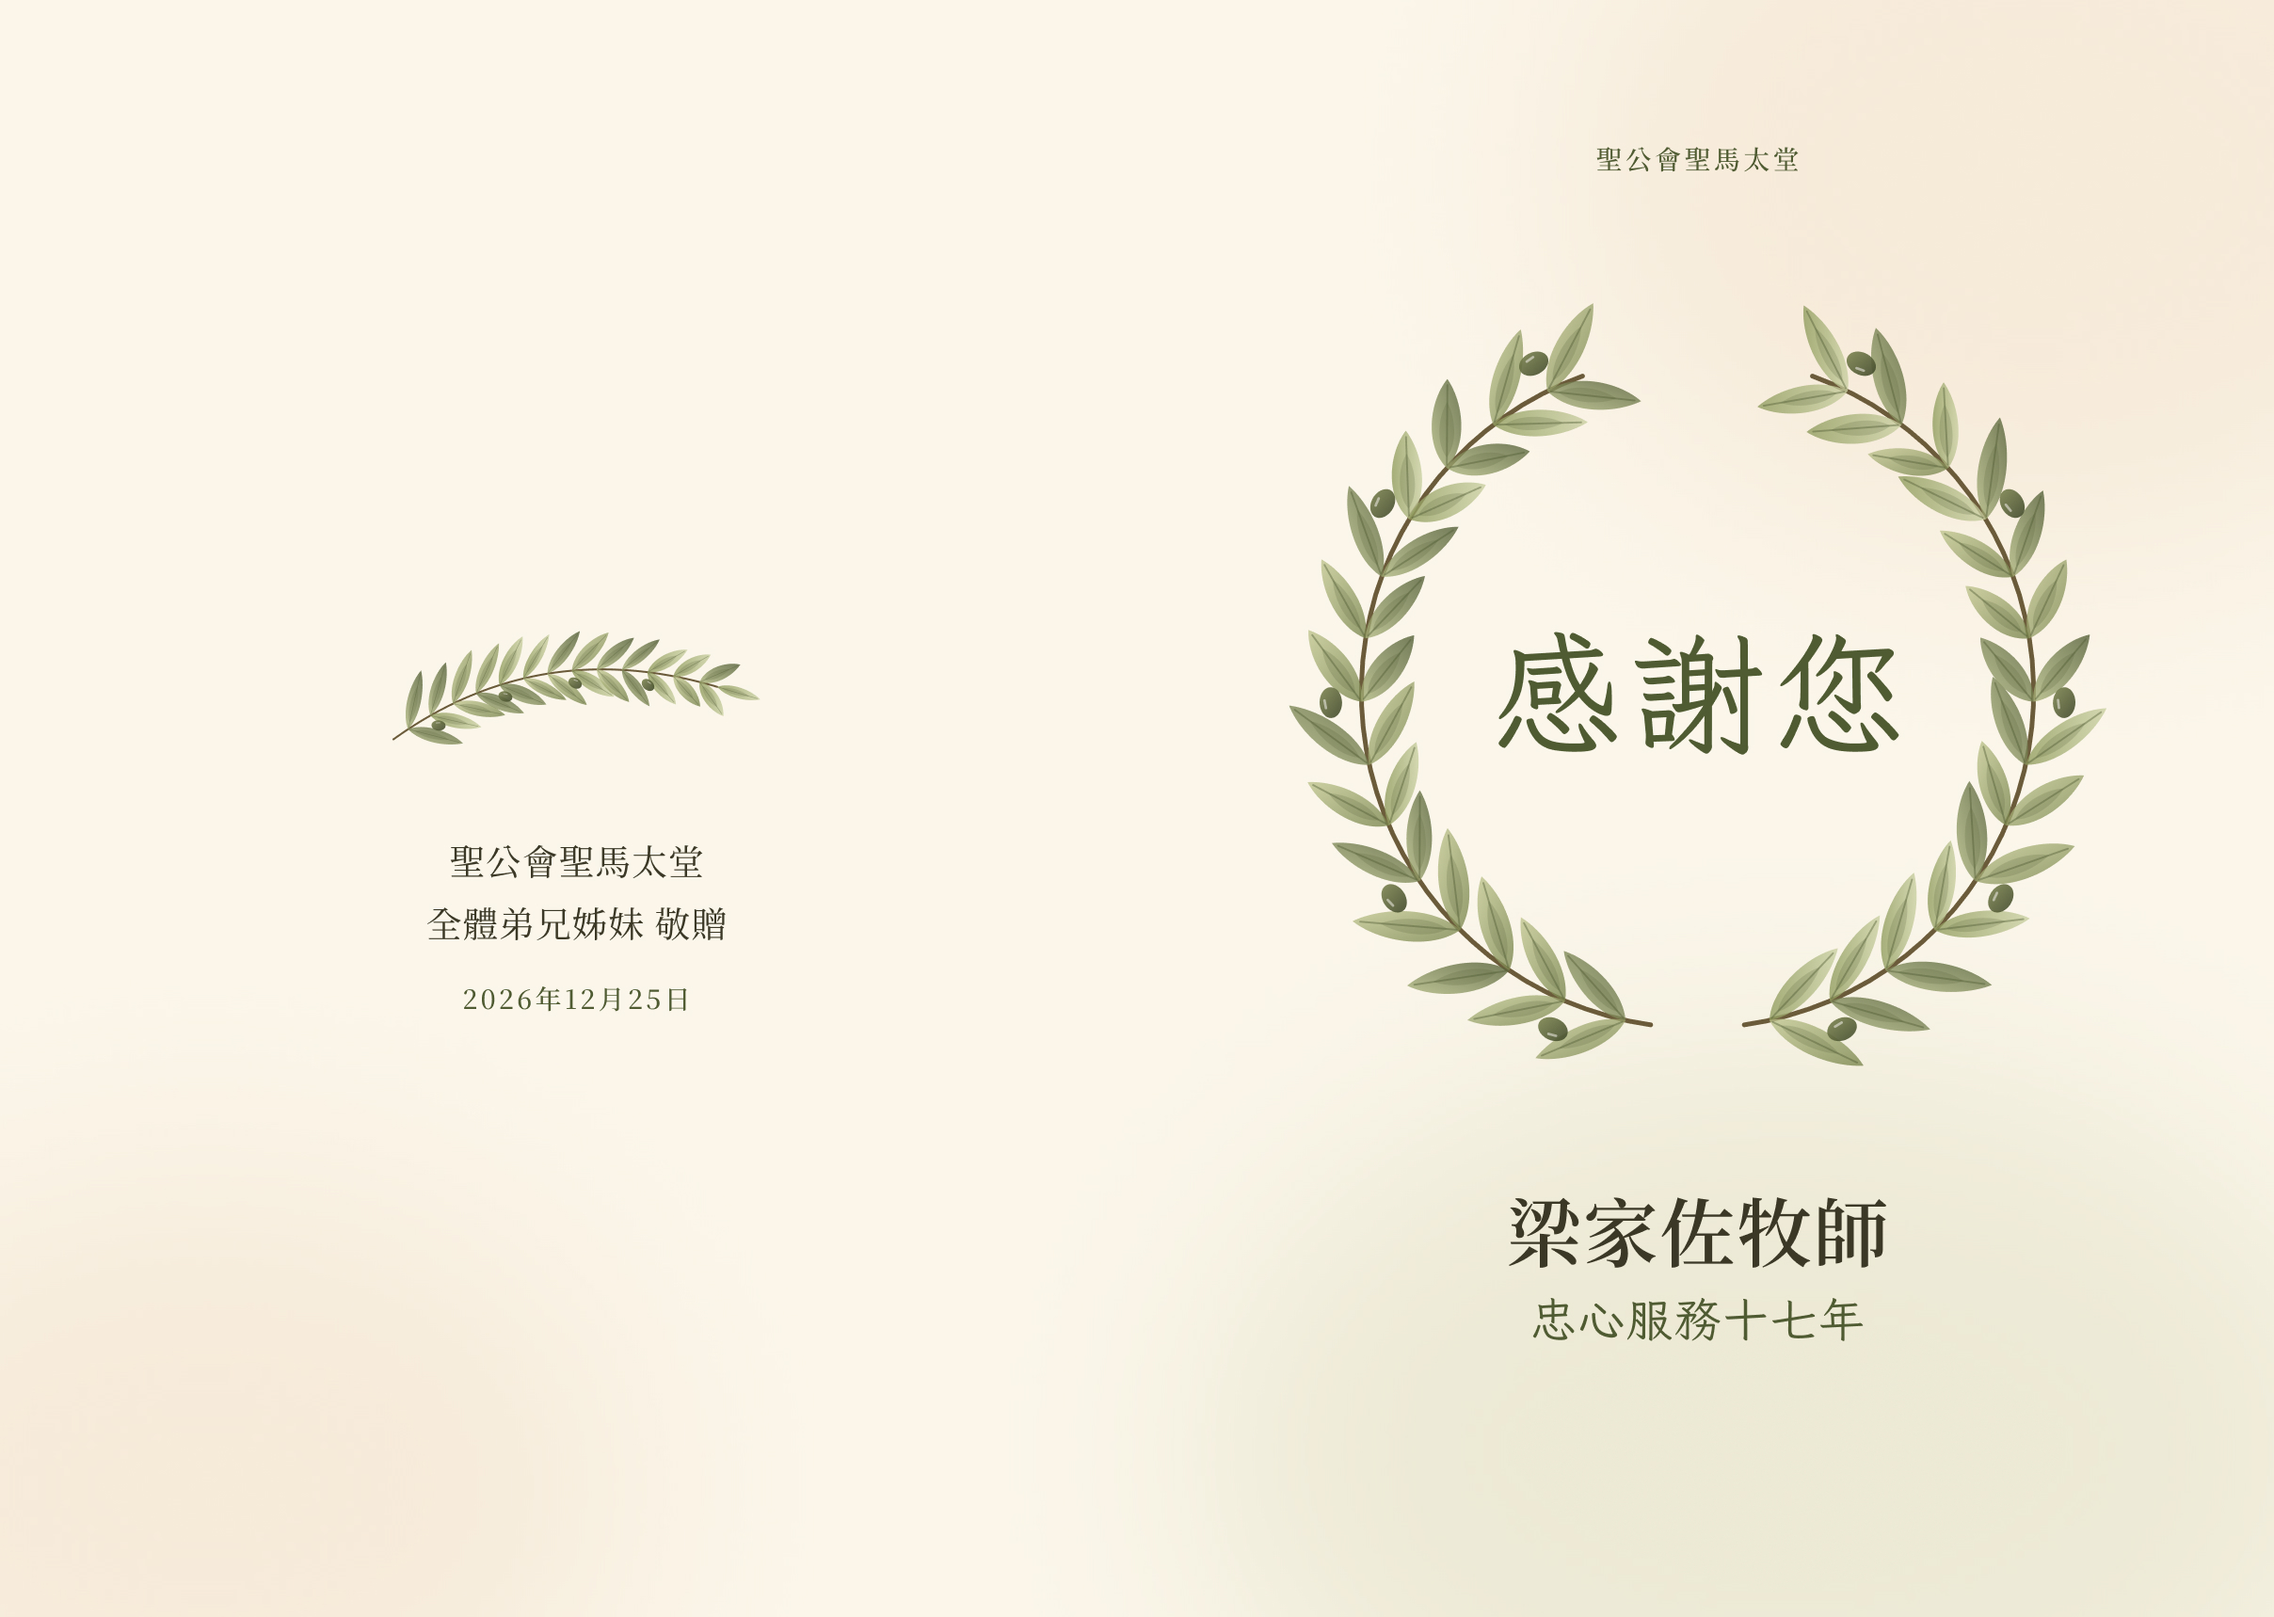
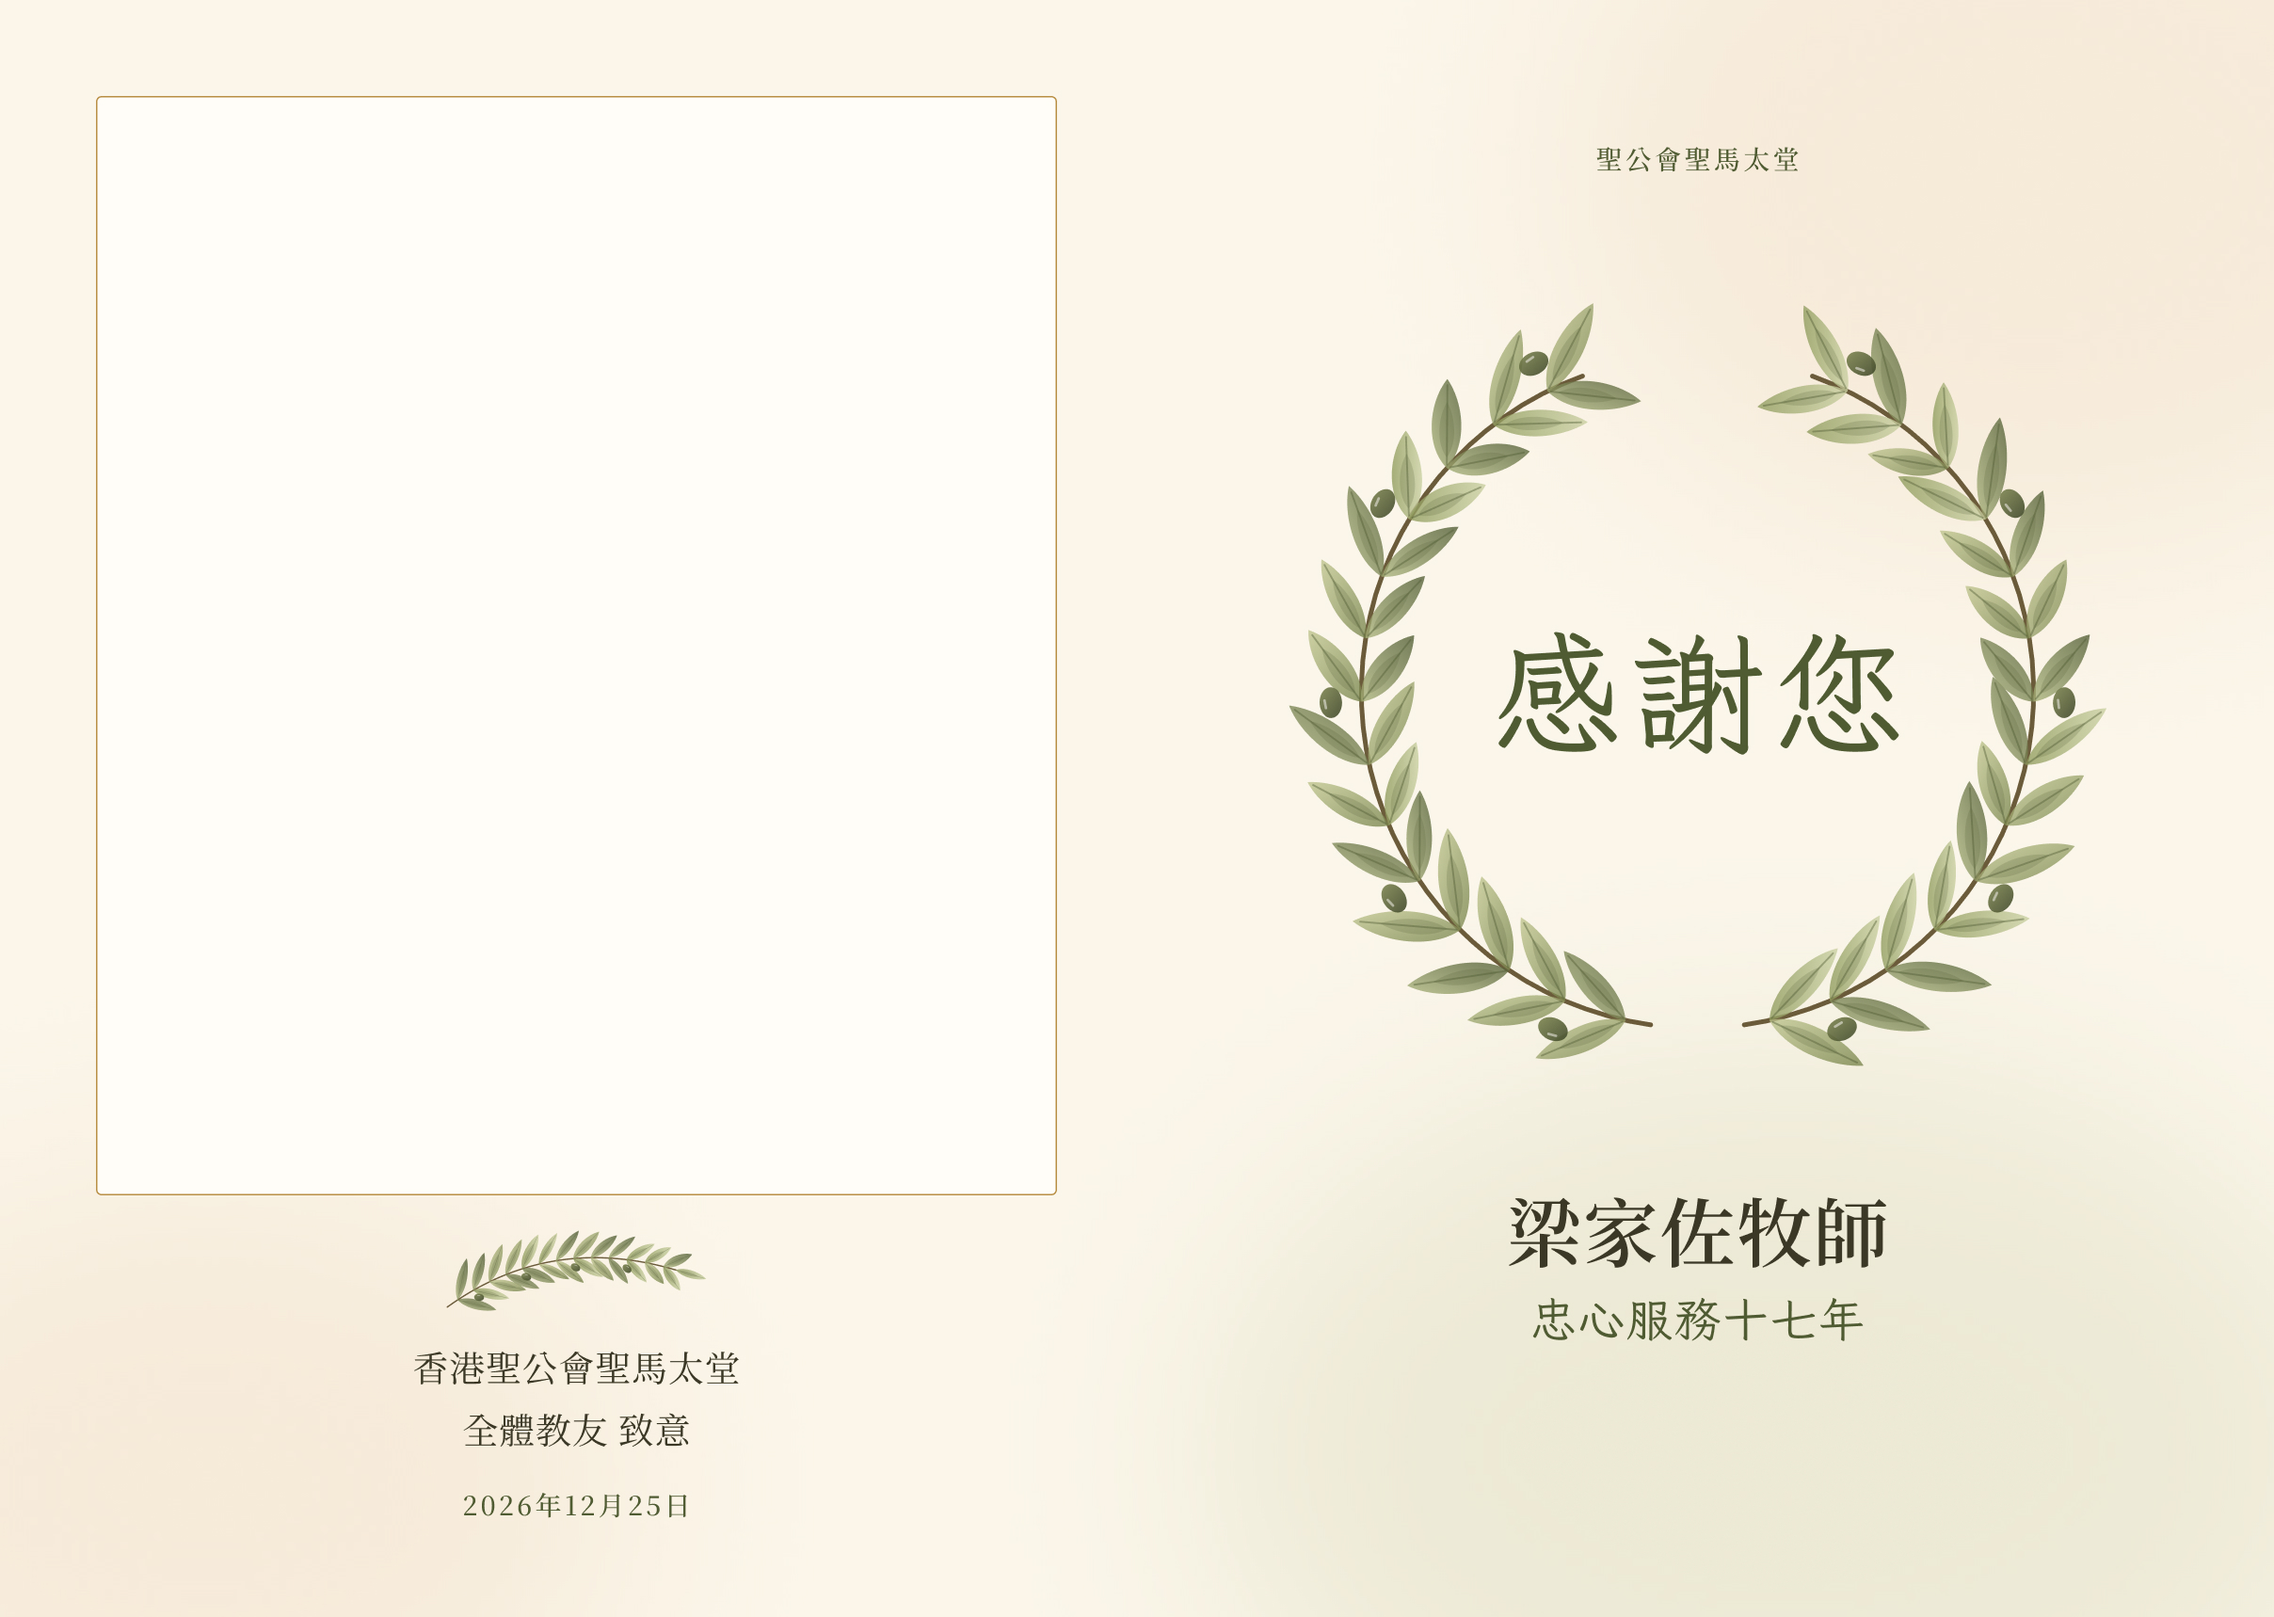
Update folded card back page with signing frame and new dedication

diff --git a/index.html b/index.html
@@ -128,7 +128,7 @@
         <div class="card3d" id="card">
           <div class="leaf">
             <div class="face fold-left"><img class="right-half" src="images/zh/a-inside.jpg" alt="摺疊卡內頁右側，為空白簽名區。"></div>
-            <div class="face face-reverse"><img class="left-half" src="images/zh/a-outside.jpg" alt="摺疊卡背面，有一小段橄欖枝和獻辭。"></div>
+            <div class="face face-reverse"><img class="left-half" src="images/zh/a-outside.jpg" alt="摺疊卡背面，上方是簽名框，下方是橄欖枝、獻辭和日期。"></div>
           </div>
           <div class="leaf leaf-cover">
             <div class="face"><img class="right-half" src="images/zh/a-outside.jpg" alt="卡片封面，橄欖花環圍繞著「感謝您」三字，下方是牧師的稱呼。"></div>
@@ -145,12 +145,12 @@
 
     <aside class="facts" aria-live="polite">
       <h2 id="fact-title">摺疊卡</h2>
-      <p class="summary" id="fact-summary">將 A3 紙對摺，打開方式就像傳統賀卡，簽名都保存在卡內。</p>
+      <p class="summary" id="fact-summary">將 A3 紙對摺，打開方式就像傳統賀卡，內頁和背面都可以簽名。</p>
       <dl>
         <div><dt>完成尺寸</dt><dd id="fact-size">合上時 A4，打開時 A3</dd></div>
-        <div><dt id="fact-space-label">80 人的簽名空間</dt><dd id="fact-space">每人 8.4 平方厘米</dd></div>
+        <div><dt id="fact-space-label">80 人的簽名空間</dt><dd id="fact-space">每人 13 平方厘米</dd></div>
         <div><dt>最適合</dt><dd id="fact-good">讓牧師隨時打開重溫的紀念品</dd></div>
-        <div><dt>請留意</dt><dd id="fact-mind">卡片合上時看不到簽名</dd></div>
+        <div><dt>請留意</dt><dd id="fact-mind">內頁的簽名在卡片合上時看不到</dd></div>
       </dl>
       <div class="controls" id="controls">
         <button class="btn primary" id="btn-open" type="button">打開卡片</button>
@@ -164,7 +164,7 @@
 
 <script>
   const OPTIONS = {
-    folded: { ratio: 842 / 595.5, title: '摺疊卡', summary: '將 A3 紙對摺，打開方式就像傳統賀卡，簽名都保存在卡內。', size: '合上時 A4，打開時 A3', space: '每人 8.4 平方厘米', good: '讓牧師隨時打開重溫的紀念品', mind: '卡片合上時看不到簽名' },
+    folded: { ratio: 842 / 595.5, title: '摺疊卡', summary: '將 A3 紙對摺，打開方式就像傳統賀卡，內頁和背面都可以簽名。', size: '合上時 A4，打開時 A3', space: '每人 13 平方厘米', good: '讓牧師隨時打開重溫的紀念品', mind: '內頁的簽名在卡片合上時看不到' },
     reference: { ratio: 1587 / 1123, title: '祝福留言頁（僅供參考）', summary: '這是另一款留言頁設計，只作參考。', size: 'A3 直式', spaceLabel: '留言空間', space: '12 個留言格', good: '寫下祝福或畫畫送給牧師', mind: '僅供參考，不列入印製選擇' }
   };
   const LABELS = { open: '打開卡片', close: '合上卡片', back: '查看背面', front: '查看正面' };
